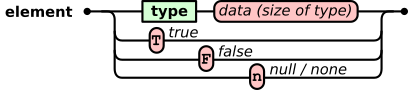
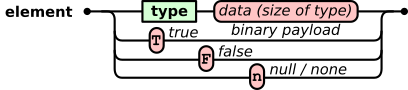
Corrected struct rule

Changed region(s): [[0.5588, 0.2667, 0.8529, 0.4222]]

diff --git a/README.md b/README.md
@@ -69,7 +69,7 @@ The grammar is fully defined and explained by a graphical representation. Green 
 <dict>       ::= "{}" | "{" <dict_items> "}" | "{" <EOF> | "{" <list_items> <EOF>
 <dict_items> ::= <element> <object> | <element> <object> <dict_items>
 <element>    ::= <type> <bin_data> | "T"  | "F" | "n"
-<type>       ::= <lenght> <type> | "S" <struct> | <bin_data>
+<type>       ::= <lenght> <type> | "S" <lenght> | <bin_data>
 <lenght>     ::= "0" | "1" | "2" | "3" | "4" | "5" | "6" | "7" | "8" | "9" |
                  "M" <bin_data> | "N" <bin_data> | "O" <bin_data> | "P" <bin_data>
 <bin_type>   ::= "i" | "j" | "k" | "l" | "I" | "J" | "K" | "L" |
@@ -347,7 +347,7 @@ typedef struct {
     float average;
 } myStruct;
 
-The xtype type symbols are k, 3s, d. The byte sequence of the struct prototype would be `[j3sf]`. In a named struct definition the sequence would be `{5scountj2sid3s7saveragef}`, which is in a more readable form `{`(`5s`)"`count`": `j`, (`2s`)"`id`": `3s`, (`7s`)"`average`" :`f}`.
+The xtype type symbols are k, 3s, d. The byte sequence of the struct prototype is `[j3sf]`. In a named struct definition the sequence would be `{5scountj2sid3s7saveragef}`, which is in a more readable form `{`(`5s`)"`count`": `j`, (`2s`)"`id`": `3s`, (`7s`)"`average`" :`f}`.
 
 
 ```Awk
